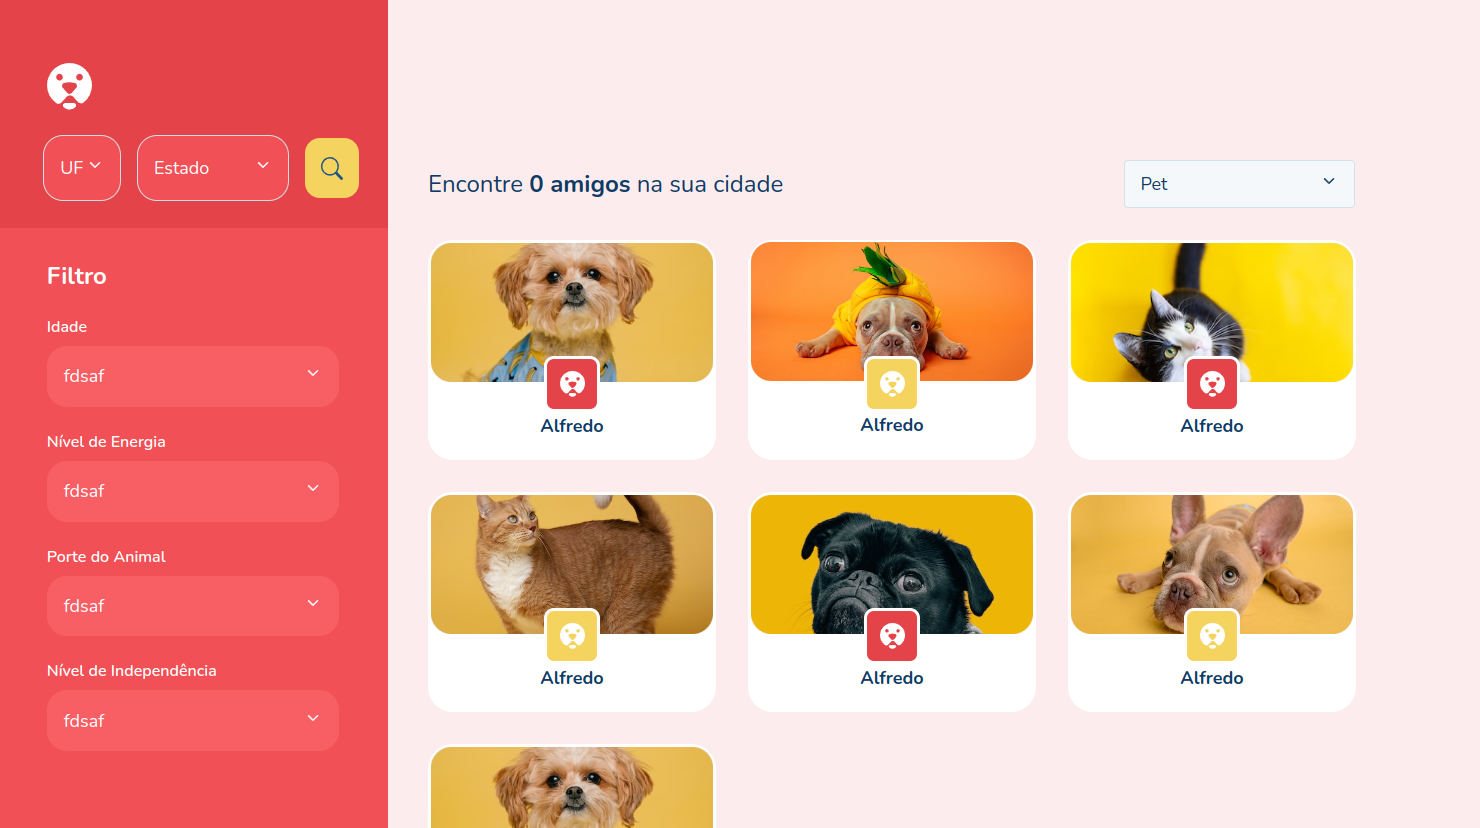
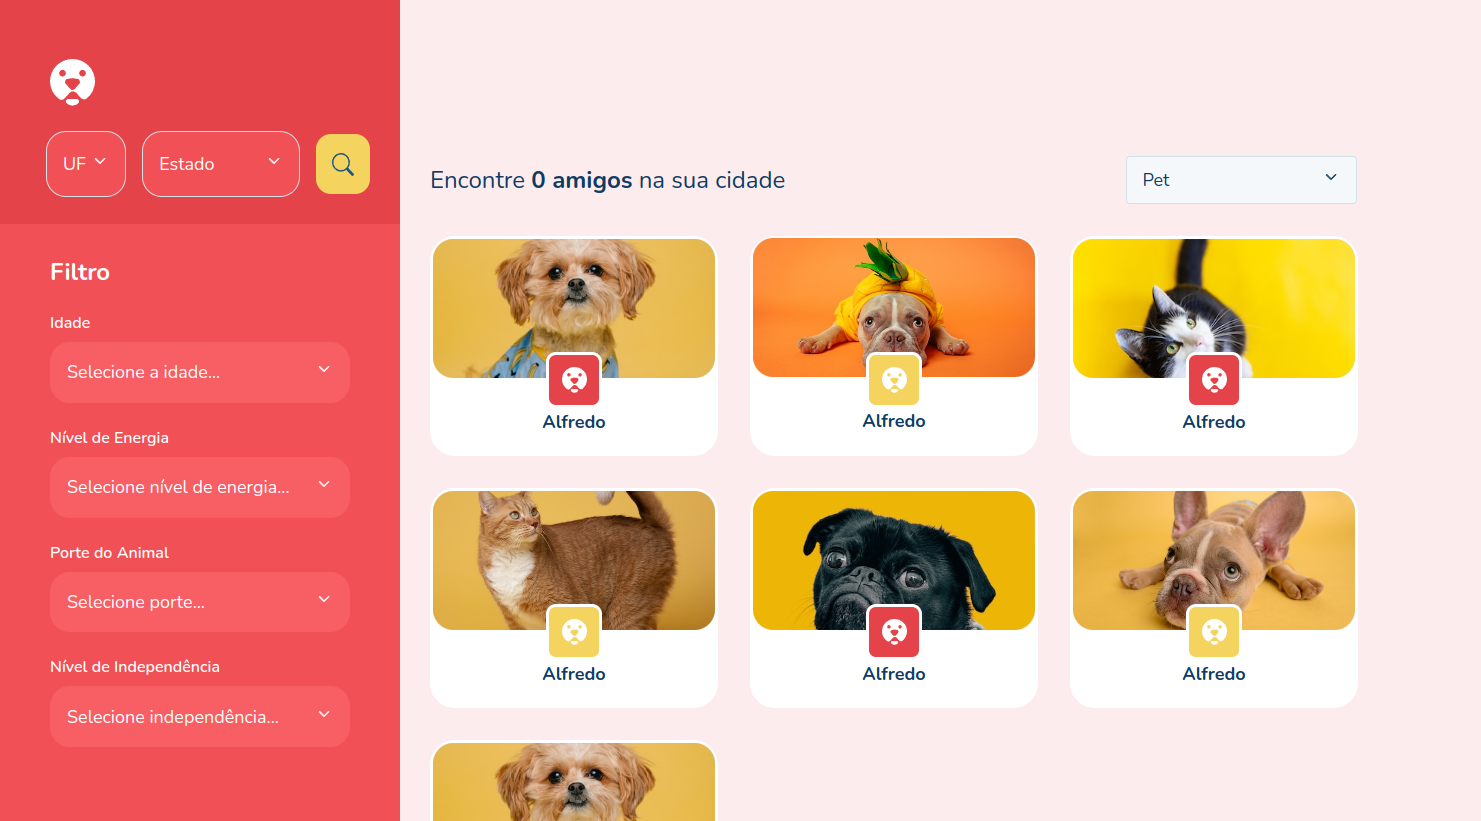
docs: Alteração de imagem do README

diff --git a/src/components/MenuInfo/index.tsx b/src/components/MenuInfo/index.tsx
@@ -8,17 +8,17 @@ import {
   ContentFilterPet,
   TitleFilter,
   LabelSelect,
-} from './styles';
-import { SelectState } from '../../pages/Home/components/SelectState';
-import { SelectForm } from '../SelectForm';
+} from "./styles";
+import { SelectState } from "../../pages/Home/components/SelectState";
+import { SelectForm } from "../SelectForm";
 
-import { BsSearch } from 'react-icons/bs';
+import { BsSearch } from "react-icons/bs";
 
-import Logo from '../../assets/Logo.svg';
+import Logo from "../../assets/Logo.svg";
 
 export function MenuInfo() {
-  const states = [{ text: 'SP', value: 'SP' }];
-  const citys = [{ text: 'São Paulo', value: 'saopaulo' }];
+  const states = [{ text: "SP", value: "SP" }];
+  const citys = [{ text: "São Paulo", value: "saopaulo" }];
 
   return (
     <MenuInfoContainer>
@@ -48,28 +48,28 @@ export function MenuInfo() {
         <SelectForm
           size={100}
           typeSelect="filter"
-          placeholder="fdsaf"
+          placeholder="Selecione a idade..."
           item={citys}
         ></SelectForm>
         <LabelSelect>Nível de Energia</LabelSelect>
         <SelectForm
           size={100}
           typeSelect="filter"
-          placeholder="fdsaf"
+          placeholder="Selecione nível de energia..."
           item={citys}
         ></SelectForm>
         <LabelSelect>Porte do Animal</LabelSelect>
         <SelectForm
           size={100}
           typeSelect="filter"
-          placeholder="fdsaf"
+          placeholder="Selecione porte..."
           item={citys}
         ></SelectForm>
         <LabelSelect>Nível de Independência</LabelSelect>
         <SelectForm
           size={100}
           typeSelect="filter"
-          placeholder="fdsaf"
+          placeholder="Selecione independência..."
           item={citys}
         ></SelectForm>
       </ContentFilterPet>

diff --git a/src/pages/PagePets/styles.ts b/src/pages/PagePets/styles.ts
@@ -1,4 +1,4 @@
-import styled from 'styled-components';
+import styled from "styled-components";
 
 export const ContainerPets = styled.div`
   position: absolute;
@@ -12,8 +12,8 @@ export const ContentPets = styled.div`
   height: 100%;
 `;
 export const TextTotalFriend = styled.p`
-  font-size: ${({ theme }) => theme.fontSize['2xl']};
-  color: ${({ theme }) => theme['blue-700']};
+  font-size: ${({ theme }) => theme.fontSize["2xl"]};
+  color: ${({ theme }) => theme["blue-700"]};
 `;
 export const WrapperFilter = styled.div`
   display: flex;
@@ -40,19 +40,19 @@ export const WrapperPet = styled.div`
   transition: 0.8s;
 
   :hover {
-    background-color: ${({ theme }) => theme['blue-700']};
+    background-color: ${({ theme }) => theme["blue-700"]};
   }
   :hover #textChild {
     color: white;
   }
   :hover #imgChild {
-    border: 3px solid ${({ theme }) => theme['blue-700']};
+    border: 3px solid ${({ theme }) => theme["blue-700"]};
   }
   :nth-child(odd) #imgChild {
-    background-color: ${({ theme }) => theme['red-500']};
+    background-color: ${({ theme }) => theme["red-500"]};
   }
   :nth-child(even) #imgChild {
-    background-color: ${({ theme }) => theme['yellow-500']};
+    background-color: ${({ theme }) => theme["yellow-500"]};
   }
 `;
 export const WrapperLogoPet = styled.div`
@@ -64,7 +64,7 @@ export const WrapperLogoPet = styled.div`
   position: absolute;
   bottom: 3rem;
   border: 3px solid ${({ theme }) => theme.white};
-
+  transition: 0.8s;
   border-radius: 10px;
 `;
 export const LogoPet = styled.img`
@@ -76,7 +76,7 @@ export const ImagePet = styled.img`
 `;
 export const NamePet = styled.p`
   margin-top: 2rem;
-  color: ${({ theme }) => theme['blue-700']};
+  color: ${({ theme }) => theme["blue-700"]};
   font-size: ${({ theme }) => theme.fontSize.lg};
   font-weight: bold;
 `;

diff --git a/src/components/MenuInfo/styles.ts b/src/components/MenuInfo/styles.ts
@@ -1,4 +1,4 @@
-import styled from 'styled-components';
+import styled from "styled-components";
 
 export const MenuInfoContainer = styled.div`
   display: flex;
@@ -7,8 +7,8 @@ export const MenuInfoContainer = styled.div`
   position: fixed;
   left: 0;
   height: 100vh;
-  width: 390px;
-  background-color: ${({ theme }) => theme['red-400']};
+  width: 25rem;
+  background-color: ${({ theme }) => theme["red-400"]};
 `;
 export const MenuInfoContentSearch = styled.div`
   display: flex;
@@ -17,7 +17,7 @@ export const MenuInfoContentSearch = styled.div`
   align-items: center;
   width: 100%;
   height: 28%;
-  background-color: ${({ theme }) => theme['red-500']};
+  background-color: ${({ theme }) => theme["red-500"]};
 `;
 export const RowLogo = styled.div`
   margin-top: 2rem;
@@ -40,16 +40,16 @@ export const ButtonSearchPet = styled.button`
   align-items: center;
   justify-content: center;
   border-radius: 15px;
-  background-color: ${({ theme }) => theme['yellow-500']};
+  background-color: ${({ theme }) => theme["yellow-500"]};
   cursor: pointer;
   transition: 0.5s;
 
   :hover {
-    background-color: ${({ theme }) => theme['yellow-300']};
+    background-color: ${({ theme }) => theme["yellow-300"]};
   }
   svg {
     font-size: 1.4rem;
-    color: ${({ theme }) => theme['blue-500']};
+    color: ${({ theme }) => theme["blue-500"]};
   }
 `;
 export const ContentFilterPet = styled.div`
@@ -61,7 +61,7 @@ export const ContentFilterPet = styled.div`
   width: 75%;
 `;
 export const TitleFilter = styled.h1`
-  font-size: ${({ theme }) => theme.fontSize['2xl']};
+  font-size: ${({ theme }) => theme.fontSize["2xl"]};
   color: ${({ theme }) => theme.white};
 `;
 export const LabelSelect = styled.p`
